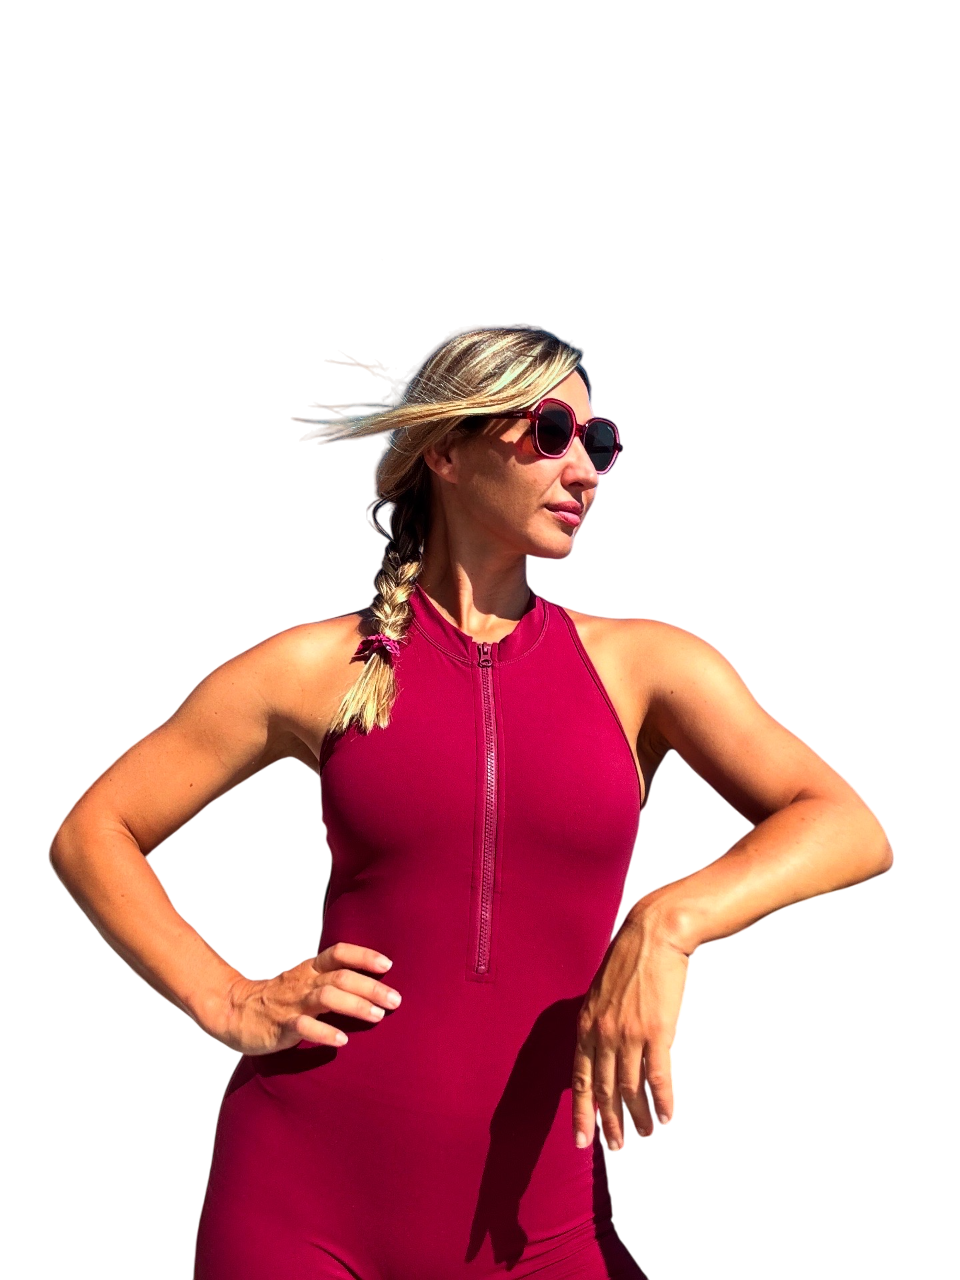
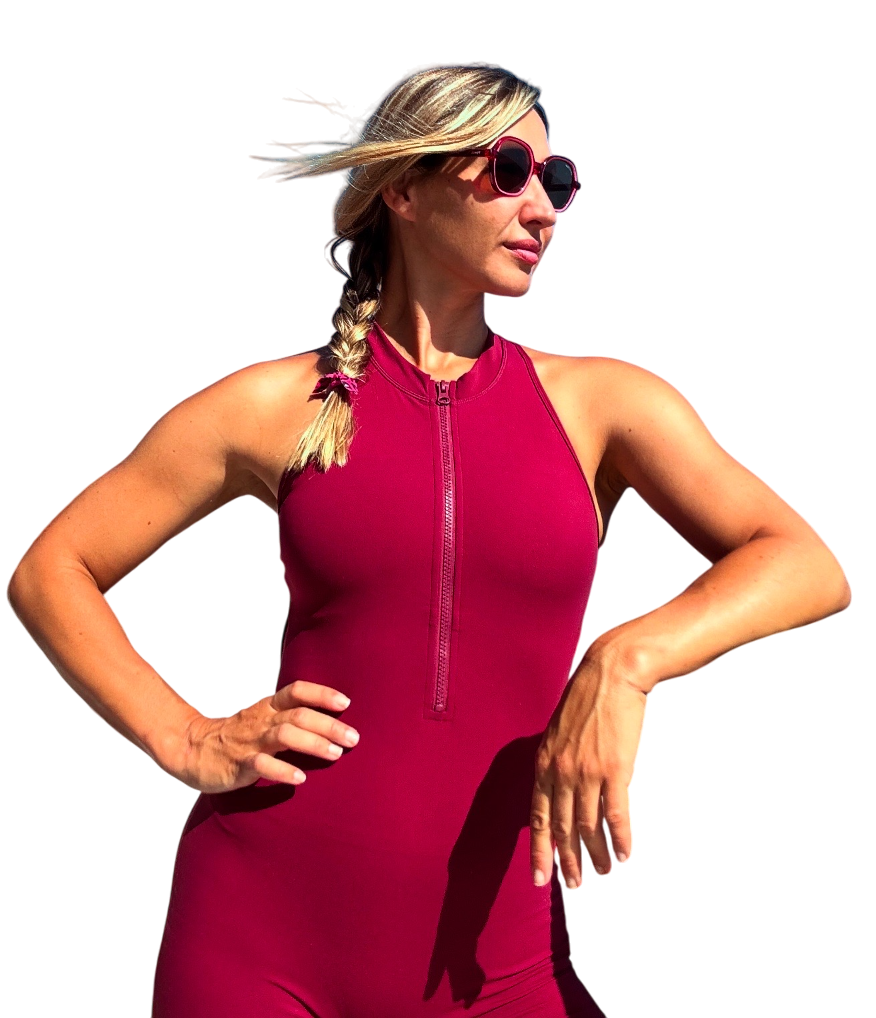
Update image positioning and currency localization
- Added object-fit: contain for beforeafter9.jpeg and beforeafter10.jpeg in testimonials
- Updated trainer10.png positioning with object-position: center -40%
- Removed blur effect from trainer10.png
- Increased cta-image-section height to 652px
- Updated currency symbols for different languages:
  - Russian (ru): ₽ (rubles)
  - English (en): $ (dollars)
  - Spanish (es): € (euros)
  - Hebrew (he): ₪ (shekels) - unchanged
- Changed space-y-6 to text-align: justify on About page

diff --git a/src/screens/Website/sections/TestimonialsSection/TestimonialsSection.tsx b/src/screens/Website/sections/TestimonialsSection/TestimonialsSection.tsx
@@ -168,7 +168,7 @@ export const TestimonialsSection = (): JSX.Element => {
             {/* Images container */}
             <div className="testimonials-images-container">
               <img
-                className={`testimonials-image ${["/beforeafter3.jpeg", "/beforeafter4.jpeg", "/beforeafter5.jpeg", "/beforeafter8.jpeg", "/beforeafter10.jpeg"].includes(currentData.images?.[0]?.src || "") ? "testimonials-image--contain" : ""}`}
+                className={`testimonials-image ${["/beforeafter3.jpeg", "/beforeafter4.jpeg", "/beforeafter5.jpeg", "/beforeafter8.jpeg", "/beforeafter9.jpeg", "/beforeafter10.jpeg"].includes(currentData.images?.[0]?.src || "") ? "testimonials-image--contain" : ""}`}
                 alt={currentData.images?.[0]?.alt || t("testimonials.defaultImageAlt")}
                 src={currentData.images?.[0]?.src || "/beforeafter1.jpeg"}
               />

diff --git a/src/screens/Website/sections/CallToActionSection/CallToActionSection.css b/src/screens/Website/sections/CallToActionSection/CallToActionSection.css
@@ -23,7 +23,7 @@
   position: relative;
   width: 100%;
   max-width: 545px;
-  height: 452px;
+  height: 652px;
   opacity: 1;
   transform: translateY(0);
   transition: all 0.3s ease;
@@ -38,6 +38,13 @@
   object-position: center 30%;
   box-shadow: 0px 20px 40px rgba(0, 0, 0, 0.2);
 }
+
+/* Ensure trainer10.png fits completely in the block */
+.cta-trainer-image--contain {
+  object-fit: contain;
+  object-position: center -40%;
+}
+
 
 /* Mobile adjustments: keep full image visible and pull section closer */
 @media (max-width: 768px) {

diff --git a/src/pages/AboutPage.tsx b/src/pages/AboutPage.tsx
@@ -44,7 +44,7 @@ export const AboutPage = (): JSX.Element => {
           {/* Content */}
           <div className="about-text">
             <h2>{t("about.storyTitle")}</h2>
-            <div className="space-y-6">
+            <div className="about-text-justify">
               <p>
                 {t("about.story1")}
               </p>

diff --git a/src/screens/Website/sections/CallToActionSection/CallToActionSection.tsx b/src/screens/Website/sections/CallToActionSection/CallToActionSection.tsx
@@ -28,7 +28,7 @@ export const CallToActionSection = (): JSX.Element => {
           <img
             src="/trainer10.png"
             alt={t("cta.imageAlt")}
-            className="cta-trainer-image"
+            className="cta-trainer-image cta-trainer-image--contain"
           />
         </div>
 

diff --git a/src/pages/AboutPage.css b/src/pages/AboutPage.css
@@ -129,6 +129,10 @@
   margin-bottom: 0;
 }
 
+.about-text-justify {
+  text-align: justify;
+}
+
 .about-button {
   margin-top: 2rem;
   height: 60px;
